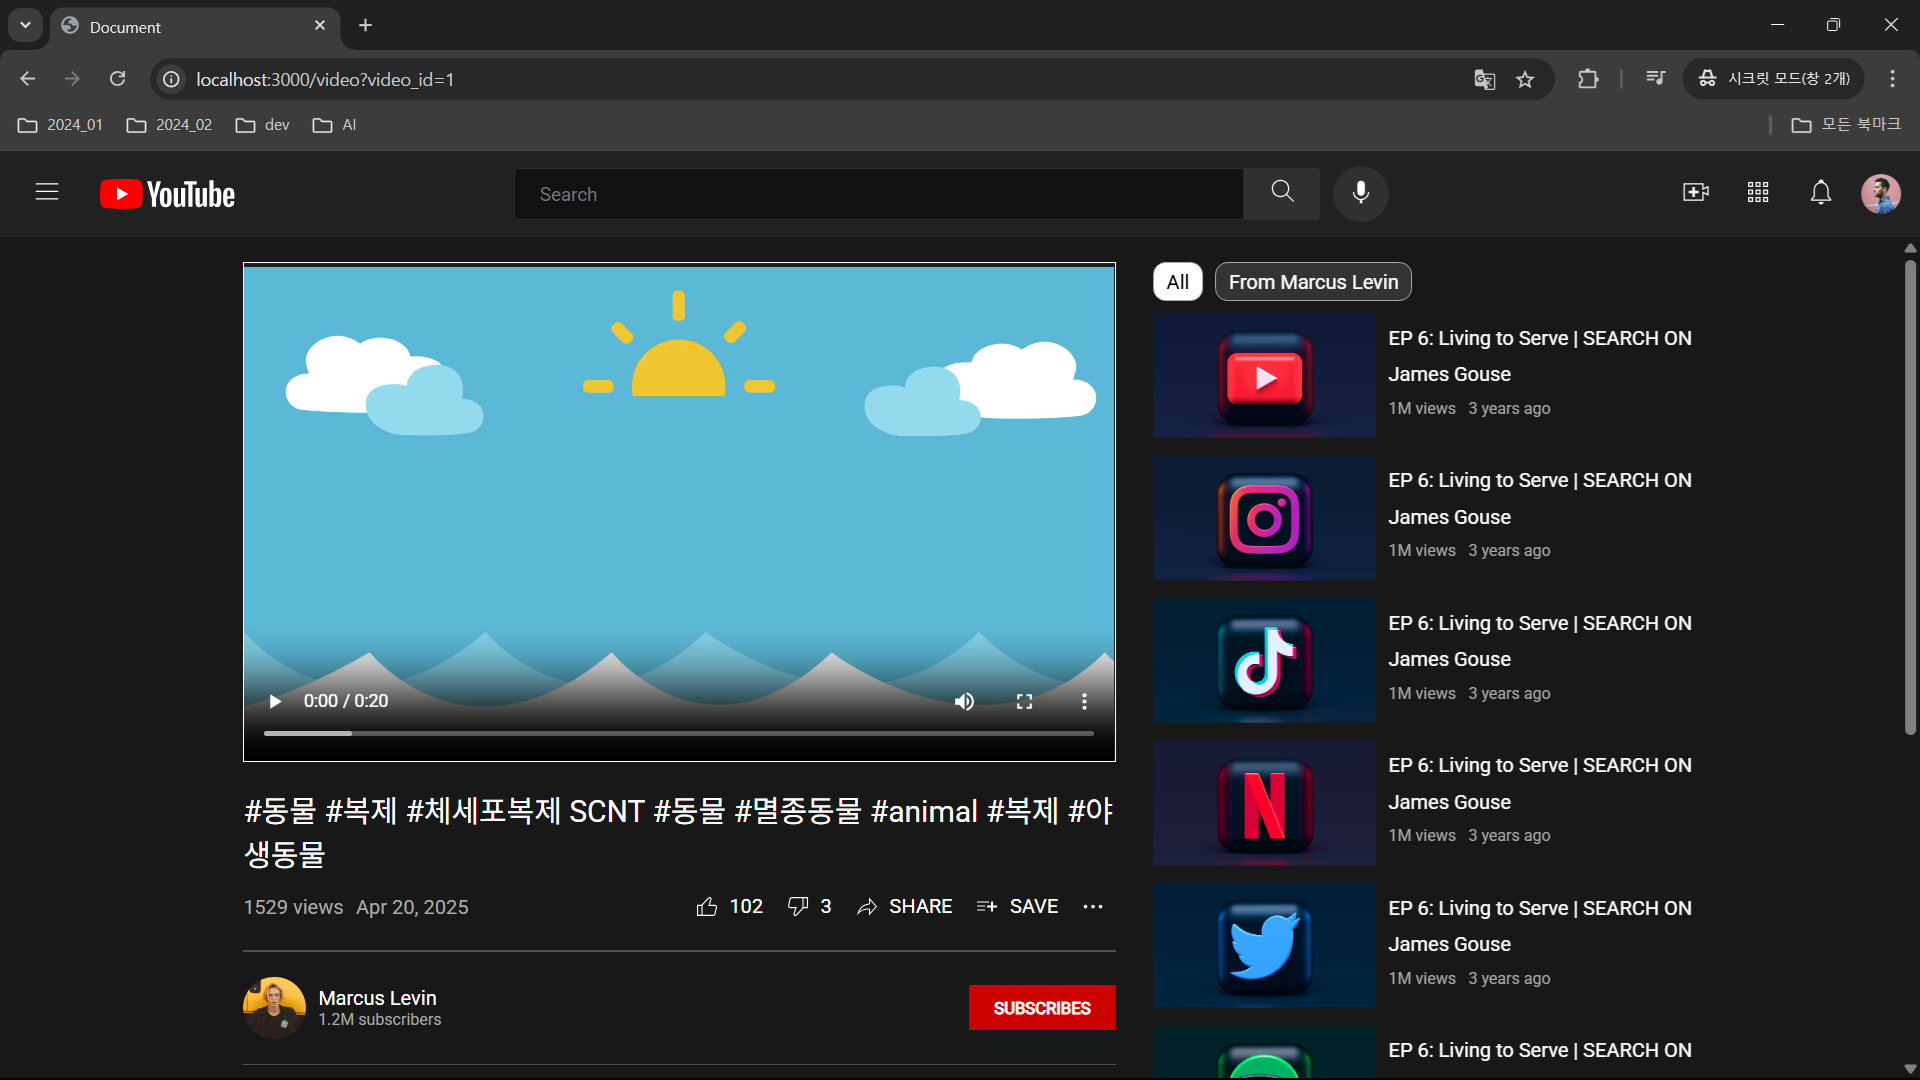
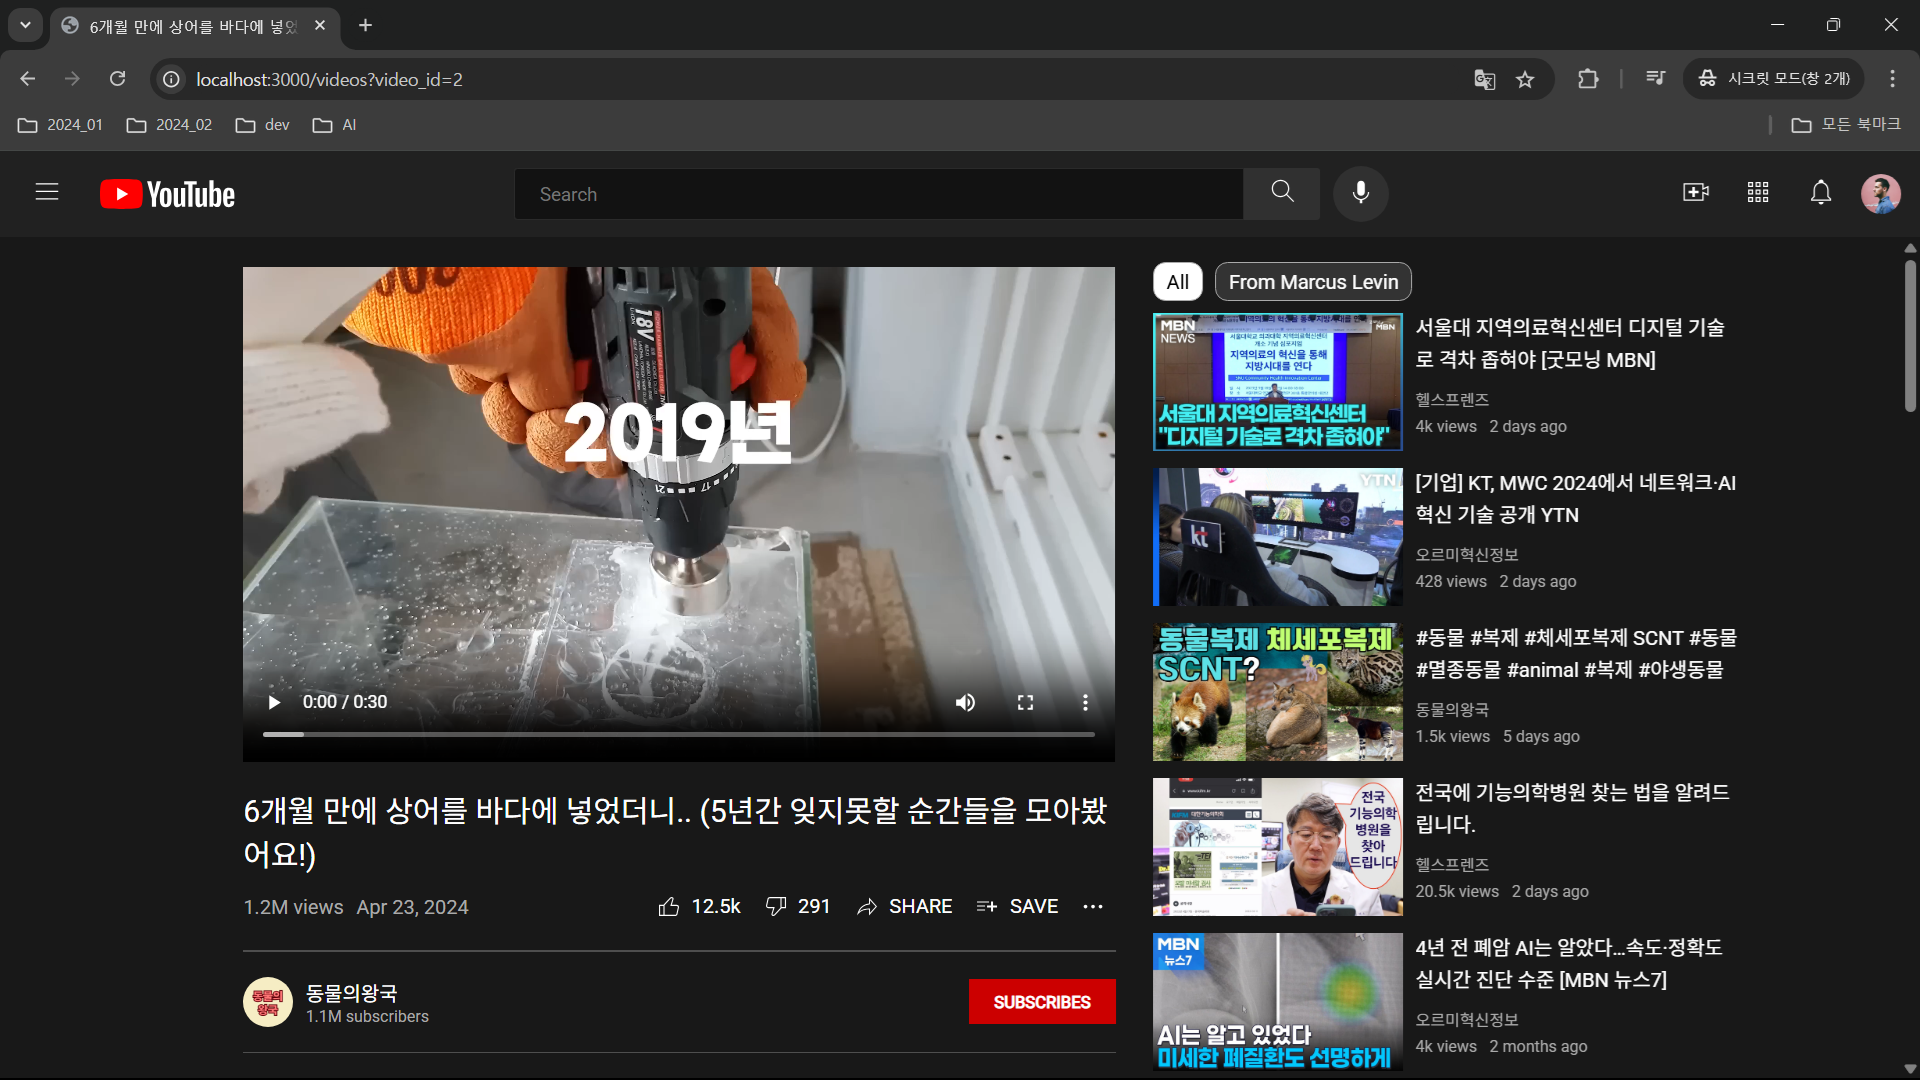
* ADD mainPageButton 상단 고정
* MOD: Modify channel page styling (#30)

* ADD 비디오, 비디오 타이틀 클릭시 해당 비디오로 이동하는 기능 추가, 채널 프로필 API로 받아서 보여주는 기능 추가 (#31)

* ADD a태그 스타일 none 추가

* ADD 비디오, 비디오 타이틀 클릭시 해당 비디오로 이동하는 기능 추가, 채널 프로필 API로 받아서 보여주는 기능 추가

* DELETE 프로필 번호 생성하는 코드 삭제

* MOD: Move videoPage files to views/videos/ (#32)

* ADD 각 코드 가동성을 위한 주석 추가

* ADD 각 코드 가동성을 위한 주석 추가

* DEL: Remove unused ejs file (#34)

* 비디오 페이지에  반응형 추가

* Get the channel name as a recommended video from the API server, Recommended video navigation bar styling (#35)

* MOD: Get the channel name as a recommended video from the API server

* MOD: Adjust font size of uploadName of the recommended videos

* Refactor: 코드 정렬 및 들여쓰기 정리

* Merge 'dev' branch into main at 250425_10:49 (#29)

* banner /channel page

1

* ADD: 메인페이지 카드UI, 메인페이지 버튼UI 반응형 작업

* FIX: topBar 버튼들에 cursor:point 속성 추가, active 기능 추가

* ADD: 메인페이지카드, 버튼UI 구조 생성

* session 3 채널페이지 작업

작업 ing

* ADD: 메인페이지버튼 hover시 부드러운 전환 추가

* FIX: article 태그 중복으로 12개만 남기고 삭제

* ADD: 영상 재생시간을 표시하기 위한 CSS 설정 추가

* ADD: 재생시간의 표시하기 위한 태그 추가

* FIX: 불필요한 반복 EJS문으로 변경 서버에서 데이터 전송하면 본문에서 forEach()를 사용해서
데이터 처리

* ADD: 그리드가 video-wrap을 벗어나는 현상 발생, 수정 중

* FIX: 그리드가 video-wrap을 벗어나는 문제 해결

* 아 머리아파 왜 안되냐 진짜

..

* FIX: mainContenStyle.css -> mainContent.css 로 이름 변경

* ADD: 반복되는 코드 Array.from을 사용해서 반복

* FIX: searchInput 크기 변경 max-width:500px -> 700px, padding:10px -> 20px

* Video page (#14)

* MOD: Make some fields change value depending on object value
[…]

diff --git a/static/css/mainPage.css b/static/css/mainPage.css
@@ -26,25 +26,33 @@ body {
 }
 
 .content-area .content-categories-wrap {
-  width: 100%;
+  z-index: 10;
+  width: inherit;
   height: 56px;
   padding-inline: 16px;
-  position: relative; /* 화살표 버튼 위치를 위한 설정 */
+  position: fixed;
+  background-color: #212121;
 }
 
 .content-categories {
+  position: relative;
   display: flex;
   justify-content: flex-start;
-  overflow-x: scroll;
-  white-space: nowrap;
   width: 100%;
   padding: 10px 50px;
   gap: 10px;
-  scroll-behavior: smooth; /* 부드러운 스크롤 동작 */
+}
+
+/* 크롬 스크롤바  */
+#category-scroll::-webkit-scrollbar {
+  display: none;
 }
 
 #category-scroll {
   scrollbar-width: none;
+  scroll-behavior: smooth;
+  white-space: nowrap;
+  overflow-x: auto;
 }
 
 .content {
@@ -82,6 +90,7 @@ body {
 }
 
 .scroll-btn {
+  z-index: 10;
   position: absolute;
   margin: 0 5px 0 5px;
   top: 15%;
@@ -93,10 +102,11 @@ body {
   opacity: 0.8;
   cursor: pointer;
   color: #fff;
+  
 }
 
 .scroll-btn.left {
-  left: 0;
+  left: 2;
 }
 .scroll-btn.left:active {
   background-color: #515151;
@@ -119,6 +129,7 @@ body {
   height: 100%;
   min-height: fit-content;
   padding: 20px;
+  margin-top: 56px;
   background-color: #000;
 }
 
@@ -184,21 +195,25 @@ body {
   border-radius: 50%;
 }
 
+.video-meta {
+  width: 100%;
+}
+
 .video-meta h3 {
   font-size: 16px;
   color: #fff;
 }
 
-.video-meta {
-  width: 100%;
+.video-meta .move-channel {
+  text-decoration: none;
 }
 
-.video-details .video-meta .username {
+.video-details .video-meta .channel-name {
   color: #aaa;
   margin-top: 10px;
 }
 
-.video-details .video-meta .username:hover {
+.video-details .video-meta .channel-name:hover {
   color: #e6e6e6;
 }
 
@@ -209,6 +224,11 @@ body {
 
 @media (max-width: 1260px) {
   .content-area {
+    width: 100%;
+    max-width: calc(100%-72px);
+    margin-left: 72px;
+  }
+  .content-categories-wrap {
     width: 100%;
     max-width: calc(100%-72px);
     margin-left: 72px;
@@ -224,6 +244,10 @@ body {
     width: 100%;
   }
 
+  .content-categories-wrap {
+    width: 100%;
+  }
+
   .video-section {
     width: 100%;
     display: grid;
@@ -236,6 +260,11 @@ body {
   .content-area {
     margin-left: 0;
     width: 100%;
+  }
+
+  .content-categories-wrap {
+    width: 100%;
+    margin-left: 0;
   }
 
   .video-section {

diff --git a/static/js/videoPage.js b/static/js/videoPage.js
@@ -63,21 +63,25 @@ async function setVideoNav(){
     try {
         const { data: res } = await getVideos();
 
-        res.forEach((v) => {
+        res.forEach(async (v) => {
+            if (v.id === parseInt(getVideoId(window.location.search), 10)) return;
+
+            const { data: chRes } = await getChannel(v.channel_id);
             const comment = `
             <div class="rVideo">
-                <a href="/video?video_id=${v.id}">
+                <a href="/videos?video_id=${v.id}">
                     <img src="${v.thumbnail}">
                 </a>
                 <div class="rVideoInfo">
-                    <a class="rVideoTitle" href="/video?video_id=${v.id}">${v.title}</a>
-                    <a class="rVideoUploader" href="#">uploaderName</a>
+                    <a class="rVideoTitle" href="/videos?video_id=${v.id}">${v.title}</a>
+                    <a class="rVideoUploader" href="#">${chRes.channel_name}</a>
                     <div class="rVideoBottom">
                         <p>${nFormatter(v.views, 1)} views</p>
                         <p>${moment(v.created_dt).fromNow()}</p>
                     </div>
                 </div>
             </div>`;
+
             $('.videoNav')[0].insertAdjacentHTML('beforeend', comment);
         });
     }catch (e){

diff --git a/app.js b/app.js
@@ -1,28 +1,36 @@
 const express = require('express');
 const app = express();
 const cors = require('cors');
-
 const path = require('node:path');
 
 app.set('view engine', 'ejs');
-// https://stackoverflow.com/questions/25858431/when-using-express-with-nodejs-how-does-view-cache-work
-// view cache는 dev 환경에선 설정되지 않으니 굳이 꺼줄 필요도 없음
-// app.set('view cache', false);
+
+// 정적 파일 경로 설정
 app.use('/public', express.static(path.join(__dirname, 'static')));
+
+// CORS 허용
 app.use(cors());
 
+// 메인 페이지
 app.get("/", (req, res) => {
   res.render("main");
 });
 
+// ✅ 수정: videoPage 경로를 yeeunkim7 폴더 내부로!
 app.get('/video', (req, res) => {
-    res.render('videoPage');
+  res.render('yeeunkim7/videoPage');
 });
 
+app.get('/videos', (req, res) => {
+    res.render('videos/videoPage');
+});
+
+// 채널 페이지
 app.get('/channel', (req, res) => {
-    res.render('channelpage');
+  res.render('channelpage');
 });
 
+// 서버 시작
 app.listen(3000, () => {
     console.log('hos server opened');
 });

diff --git a/static/css/yeeunkim7/videoMain.css b/static/css/yeeunkim7/videoMain.css
@@ -74,13 +74,11 @@
 .videoUploader {
     display: flex;
     justify-content: flex-start;
-    align-items: center;
     gap: 10px;
 }
 
 .videoUploader > img {
-    width: 40px;
-    height: 40px;
+    width: 50px;
     border-radius: 50%;
 }
 
@@ -170,9 +168,23 @@
     color: #aaa;
 }
 
-@media (max-width: 1280px) {
-    .videoMain {
-        align-items: center;
-        width: 80%;
+@media (max-width: 768px) {
+    main {
+      flex-direction: column;
+      height: auto;
+      margin-top: 60px;
     }
-}
+  
+    .videoMain {
+      width: 100%;
+    }
+  
+    .videoNav {
+      width: 100%;
+      margin-top: 20px;
+    }
+  
+    body {
+      font-size: 14px;
+    }
+  }

diff --git a/static/css/channel.css b/static/css/channel.css
@@ -14,18 +14,23 @@
     .channel {
         display: flex;
         flex-direction: column;
-        min-height: 100vh;
+        /* min-height: 100vh; */
         width: 100%;
+        height: calc(100vh - 69px);
+        position: absolute;
+        top: 69px;
+        overflow-y: scroll;
+        scrollbar-color: gray #181818;
     }
     
     .navBar {
-        position: fixed;
+        /* position: fixed;
         top: 69px; 
         left: 0;
         width: 240px;
         bottom: 0;
         background-color: #222;
-        z-index: 1;
+        z-index: 1; */
     }
     
     .topBar {

diff --git a/static/js/func.js b/static/js/func.js
@@ -1,0 +1,12 @@
+// public/js/func.js
+document.addEventListener('DOMContentLoaded', () => {
+    const toggleBtn = document.getElementById('toggleDescription');
+    const fullText = document.getElementById('fullDescription');
+  
+    if (toggleBtn && fullText) {
+      toggleBtn.addEventListener('click', () => {
+        fullText.classList.toggle('hidden');
+        toggleBtn.textContent = fullText.classList.contains('hidden') ? 'SHOW MORE' : 'SHOW LESS';
+      });
+    }
+  });

diff --git a/static/css/videoNav.css b/static/css/videoNav.css
@@ -78,12 +78,27 @@
     transition: .25 linear;
 }
 
+.rVideoInfo > .rVideoUploader {
+    font-size: .8rem;
+}
+
 .rVideoBottom {
     display: flex;
     flex-direction: row;
     gap: 10px;
     color: #aaa;
     font-size: .8rem;
+}
+
+.video-duration {
+    position: absolute;
+    bottom: 4px;
+    right: 4px;
+    background-color: rgba(0, 0, 0, 0.8);
+    color: white;
+    font-size: 12px;
+    padding: 1px 4px;
+    border-radius: 3px;
 }
 
 @media (max-width: 1280px){

diff --git a/README.md b/README.md
@@ -19,7 +19,7 @@
 | 일자       | 김예은                                 | 신동규                             | 이수완                                | 허준                                 |
 | ---------- | -------------------------------------- | ---------------------------------- | ------------------------------------- | ------------------------------------ |
 | 2025-04-22 | 상단바 html 개발 (html/상단바3개.html) | nav바 html 개발 (html/navBar.html) | 상단바 css 개발 (css/headerStyle.css) | nav바 css 개발 (css/navBarStyle.css) |
-|2025-04-23|video 페이지 개발중 (views/yeeunkim7/*)|video page 개발중 (videoMain / videoNav / videoPage / videoComment / recommendedVideo.ejs)|main page 개발중 (main/mainContent.ejs)|channel page 개발중(channel/channelpage.ejs)|
+|2025-04-23|video 페이지 개발중 (views/yeeunkim7/*)|video page 개발중 (views/videos/*)|main page 개발중 (main/mainContent.ejs)|channel page 개발중(channel/channelpage.ejs)|
 |2025-04-24|video 페이지 개발중 (views/yeeunkim7/*)|video page 개발중 (static/js/\[utils/videoPage\].js)|main page 개발중 (main/mainContent.ejs)|channel page 개발중(channel/channelpage.ejs)|
 
 ## 실행
@@ -38,6 +38,6 @@ http://localhost:3000
 ### 영상 페이지
 ```
 id: Number
-http://localhost:3000/video?video_id={id}
+http://localhost:3000/videos?video_id={id}
 ```
 ![Video page](./static/img/README/videoPage.png)
